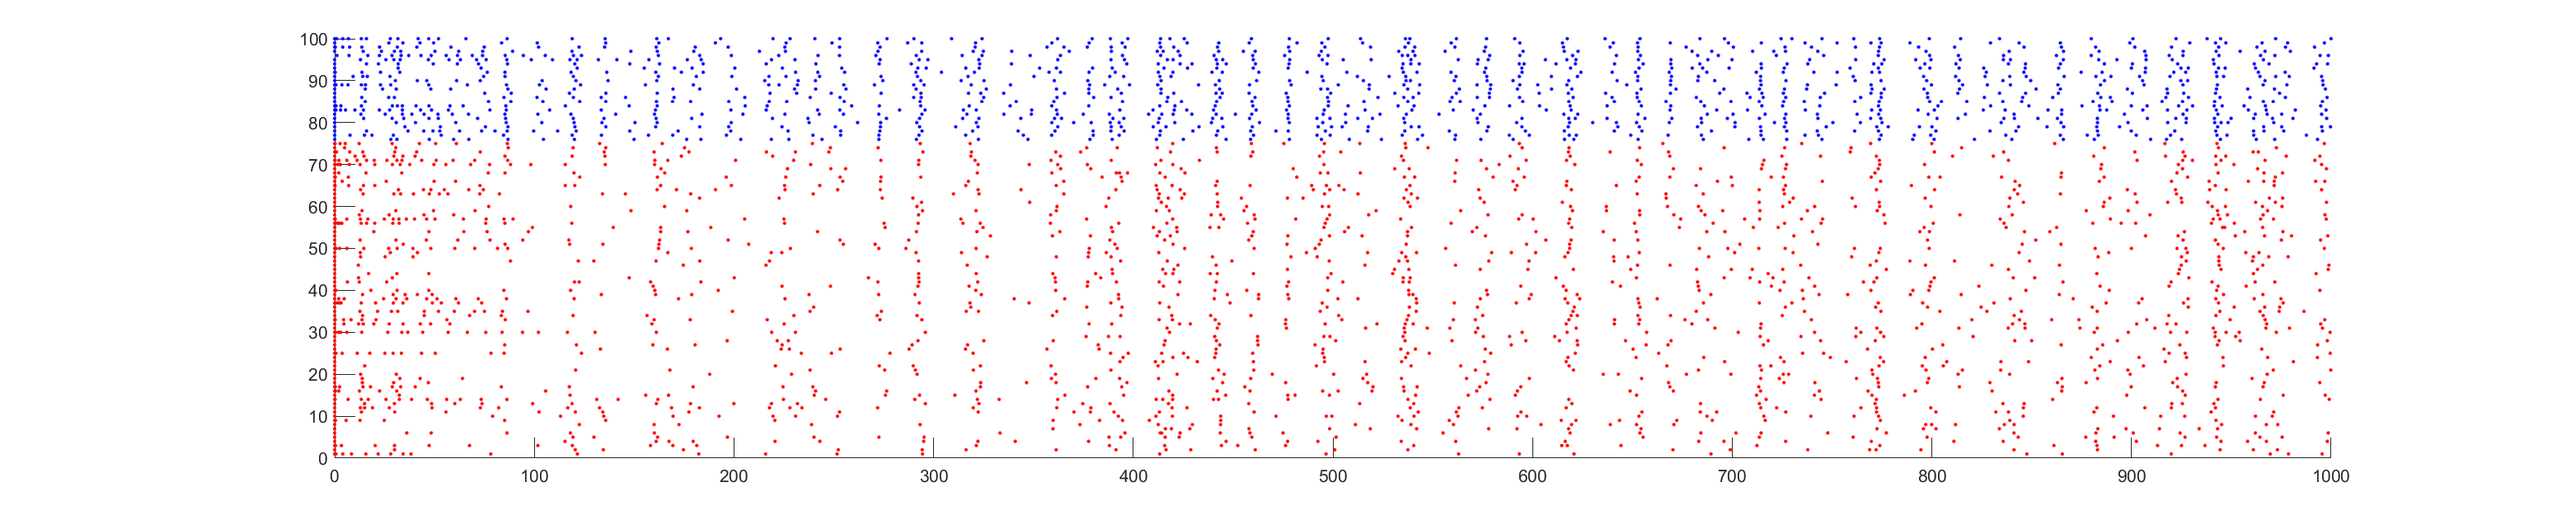
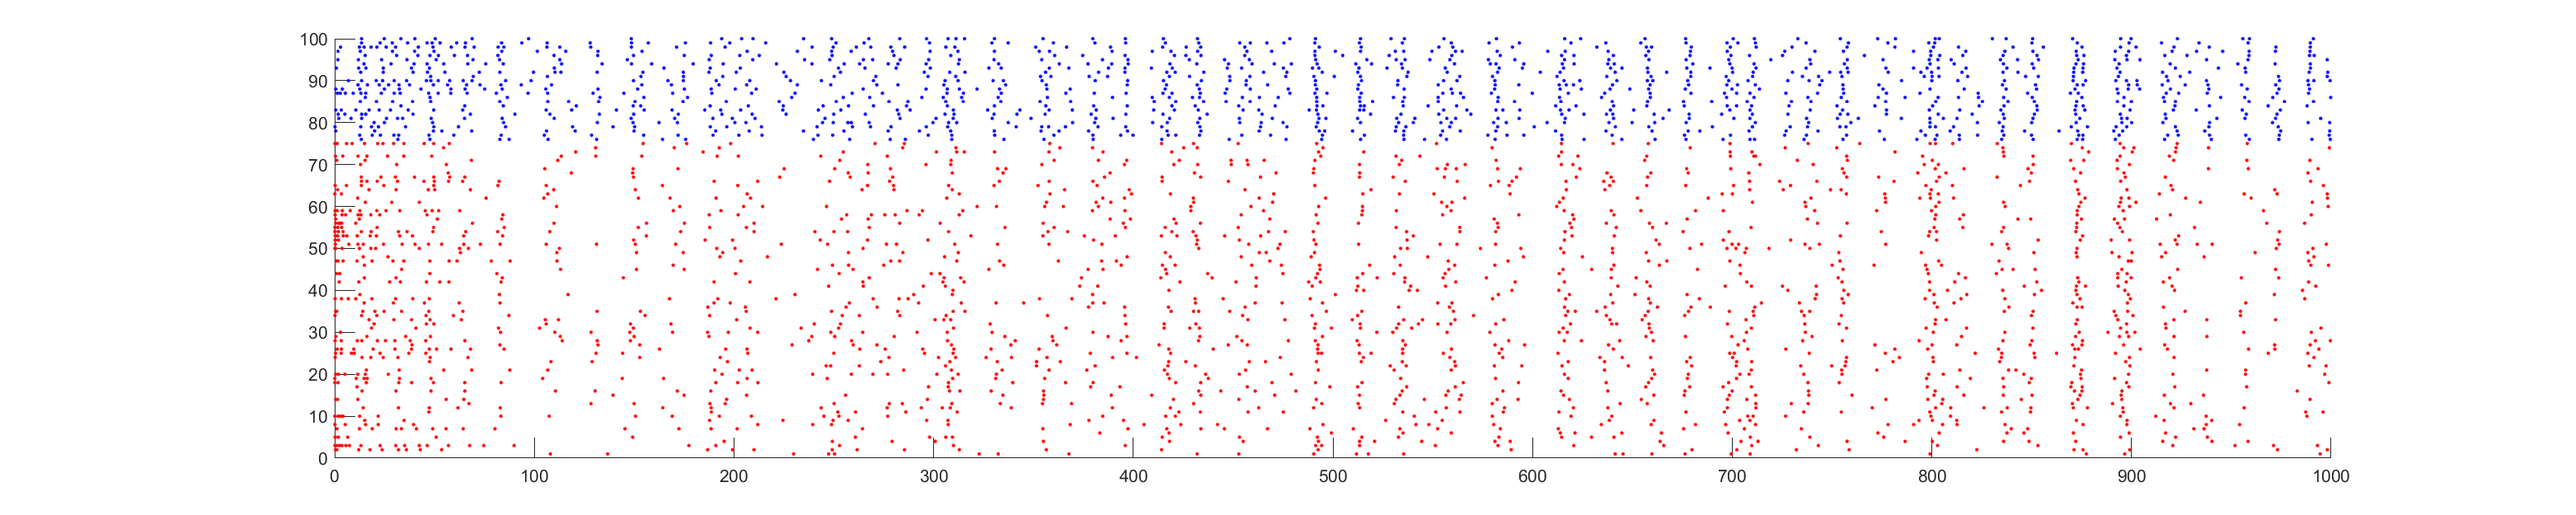
Update scatterplot
Fix a bug

diff --git a/main.m b/main.m
@@ -191,10 +191,10 @@ param6.tau_ie   = 0.95;
 param6.tau_i    = 4.5;
 duration_time   = 1000;
 
-% random inilialization
-%s = zeros(4,param6.ne+param6.ni);
-%s(1,:) = double(rand(1,param6.ne+param6.ni)>0.8);
-%s(2:3,:) = unidrnd(param6.M+param6.Mr+1,[2,param6.ne+param6.ni])- param6.M-1;
+%random inilialization
+s = zeros(4,param6.ne+param6.ni);
+s(1,:) = double(rand(1,param6.ne+param6.ni)>0.8);
+s(2:3,:) = unidrnd(param6.M+param6.Mr+1,[2,param6.ne+param6.ni])- param6.M-1;
 
 start_time6 = clock;
 spikes6 = model_full(s, duration_time, param6);

diff --git a/model/scatterplot.m b/model/scatterplot.m
@@ -1,11 +1,12 @@
 function [] = scatterplot(spikes,ne,ni,name)
 % A function to show scatterplots and save them in folder output
-maxrow=max(spikes(1,:));
 for i=1:ne
+maxrow = spikes(1,i);
 scatter(spikes(2:maxrow+1,i), i*ones(1,maxrow),'.','r');
 hold on
 end
 for i=(ne+1):(ne+ni)
+maxrow = spikes(1,i);
 scatter(spikes(2:maxrow+1,i), i*ones(1,maxrow),'.','b');
 hold on
 end
